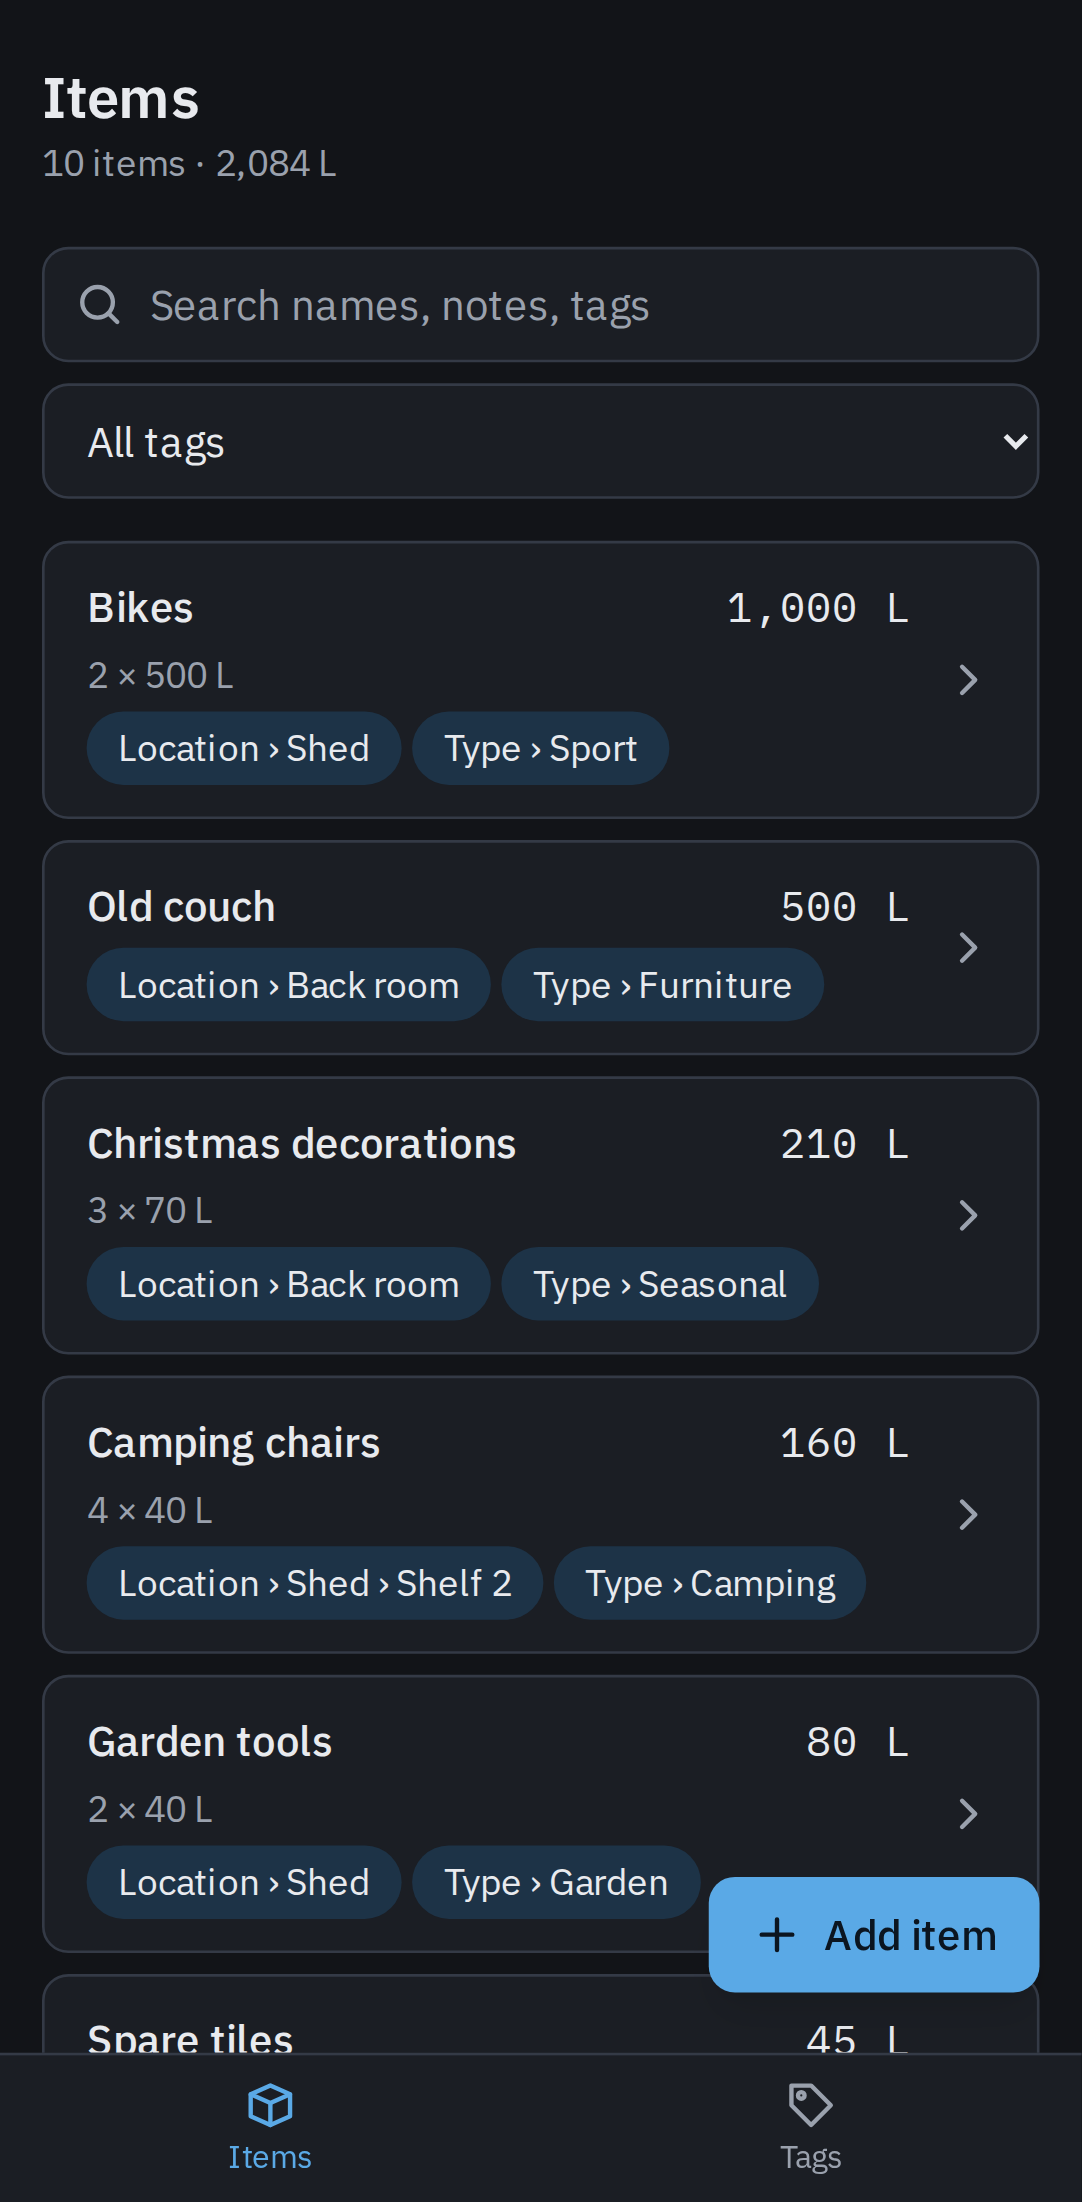
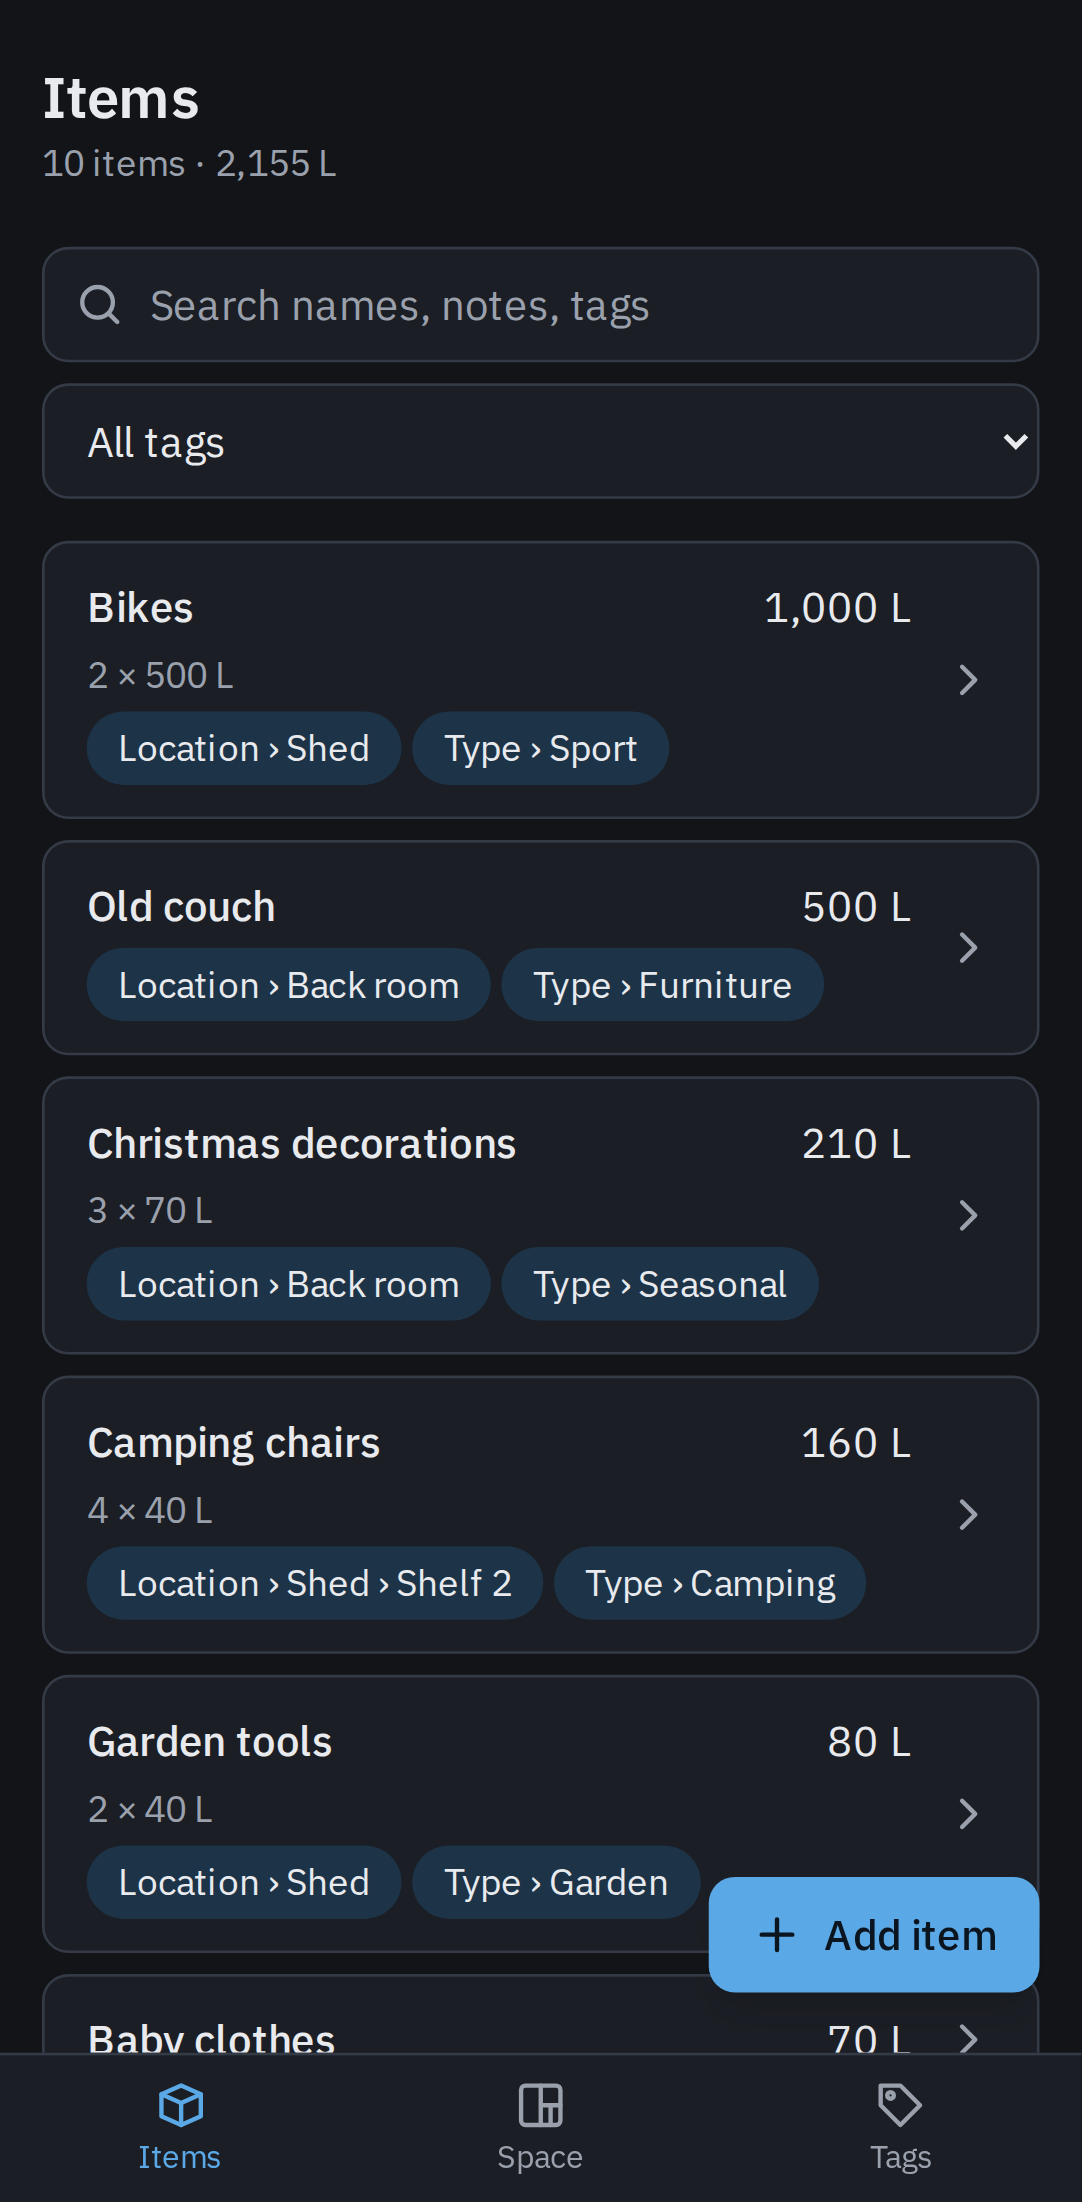
Document the Space screen and retake README screenshots with the new nav

diff --git a/CLAUDE.md b/CLAUDE.md
@@ -27,7 +27,7 @@ Gotchas:
 - `apps/server/cmd/shelf-organiser/`: `main.go` with the testable `run()`, and `main_test.go` app tests through it.
 - `apps/server/internal/`: `config` (env), `store` (SQLite, goose migrations in `store/migrations/`, all queries), `api` (handlers for the generated strict interface), `dictation` (transcript to drafts via Claude, and `claudefake/`), `web` (serves the embedded client).
 - `docs/adr/`: decisions, e.g. why dictation leaves speech-to-text to the phone keyboard.
-- `apps/web/src/`: `pages/` arrange `components/`; logic lives in `items/` and `tags/` with `*.test.ts` beside it; `api/` holds the client and one TanStack Query hooks file per resource.
+- `apps/web/src/`: `pages/` arrange `components/`; logic lives in `items/`, `tags/`, `space/` (the treemap's breakdown and hand-rolled squarify layout) and `session/` (sessionStorage) with `*.test.ts` beside it; `api/` holds the client and one TanStack Query hooks file per resource.
 - `test/e2e/`: Playwright. Every spec imports `test` from `fixtures/test.ts` (resets the database before each test) and seeds through `fixtures/api.ts`.
 
 ## Conventions
@@ -38,6 +38,7 @@ Gotchas:
 - **Deleting a tag deletes its subtree;** items stay and lose those tags. The UI confirms first. Deleting an item instead offers Undo.
 - **Items store litres per unit;** total space is litres × quantity. Size presets live only in `apps/web/src/items/size.ts` and are never stored.
 - **Item writes take tag paths;** the server creates missing tags in the same transaction, so a rejected item leaves no stray tags.
+- **The Space screen is computed in the client** from the item and tag lists (`space/breakdown.ts`); there is no aggregate API. Within a dimension each item counts once, under its deepest tag (ties go to the first by path), so blocks always sum to the total. The treemap is `aria-hidden`; the breakdown list below it is the accessible view and must keep the same links.
 - **Dictation is optional:** without `ANTHROPIC_API_KEY` the dictate button is hidden and `/api/dictation/drafts` 503s; typed entry must never depend on it. Drafts only ever carry existing tags (`dictation.Clean`) and nothing is saved until the client creates each item.
 - **No test reaches the real Anthropic API.** Every layer uses `dictation/claudefake`: `httptest` in Go tests, and in e2e the server mounts it at `/api/test/anthropic/` and Playwright points `ANTHROPIC_BASE_URL` there. Its canned parsing is described in its package comment; a transcript containing `FAIL` makes it 500.
 - **Test-only routes** (`POST /api/test/reset`, the fake above) exist only with `APP_TEST_MODE=1`; `main_test.go` proves they 404 otherwise. Every env var is in `.env.example` (`deploy_test.go` enforces it).

diff --git a/README.md b/README.md
@@ -5,17 +5,19 @@ A self-hosted app for cataloguing what's in your shed or back room, so you can s
 - Add items from your phone with a one-tap size preset, or type the litres
 - Dictate a list with your phone keyboard's microphone; Claude turns it into drafts you check before saving (optional, needs an Anthropic API key)
 - Tag items with nested tags such as `Location › Shed › Shelf 2`, creating them as you type
+- See what takes up the space on a treemap by Location, Type or any other top-level tag, and tap in to drill down; the same totals are listed beneath it
 - See every item ranked by the total space it takes
 - Search by name, note or tag, and filter to any tag and everything inside it
 - Rename, move and delete tags without losing items
 
 <table>
   <tr>
+    <td><img src="docs/screenshots/space.png" width="200" alt="Treemap of space by Location: Shed 62%, Back room 34%, and a small Untagged block"></td>
     <td><img src="docs/screenshots/items.png" width="200" alt="Item list ranked by total space, with tag chips on each item"></td>
     <td><img src="docs/screenshots/add.png" width="200" alt="Add item form with size presets, quantity and tag suggestions"></td>
     <td><img src="docs/screenshots/tags.png" width="200" alt="Tag tree with Location and Type dimensions and item counts"></td>
   </tr>
-  <tr><td>Items</td><td>Add item</td><td>Tags</td></tr>
+  <tr><td>Space</td><td>Items</td><td>Add item</td><td>Tags</td></tr>
 </table>
 
 ## Deploy

diff --git a/CONTEXT.md b/CONTEXT.md
@@ -45,3 +45,13 @@ _Avoid_: breadcrumb, full name
 **Dimension**:
 A top-level tag, such as Location or Type, that groups one way of looking at the items.
 _Avoid_: root tag, axis, facet
+
+**Untagged**:
+Items with no tag in the dimension being looked at, shown together as one block on the space map.
+_Avoid_: uncategorised, other
+
+## Space map
+
+**Space map**:
+The treemap on the Space screen: one block per tag or item at the current level, its area its total space. An item counts once, under its most specific tag in the dimension.
+_Avoid_: chart, heatmap, graph
